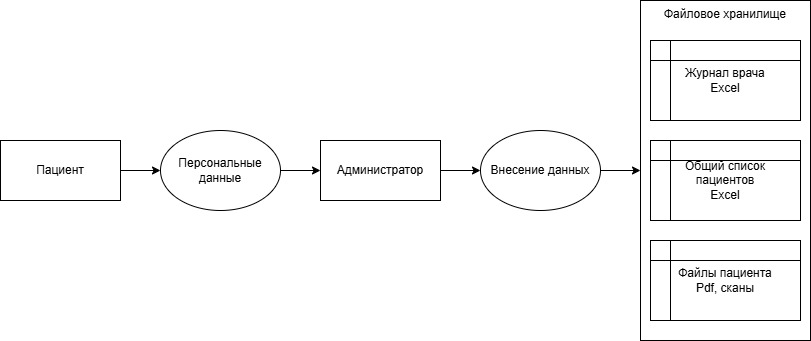
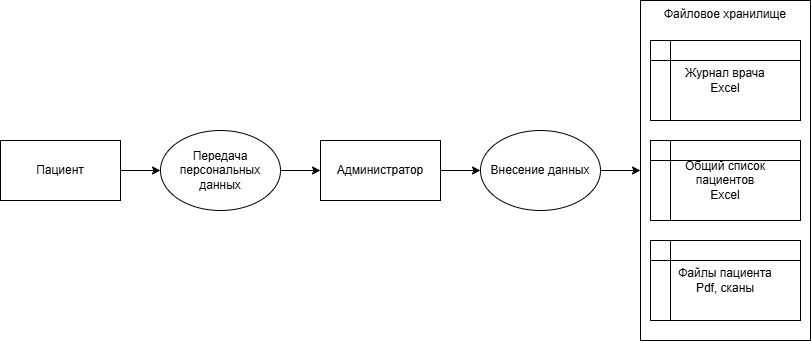
Task 1

Changed region(s): [[0.2158, 0.4399, 0.3391, 0.5572]]

diff --git a/Task1/README.md b/Task1/README.md
@@ -1,0 +1,64 @@
+## Задание 1. Анализ безопасности системы
+
+### Диаграммы потоков данных as-is
+
+#### Запись на прием
+![Запись на прием](Запись_на_прием_as-is.jpg)
+#### Прием пациента
+![Прием у врача](Прием_у_врача_as-is.jpg)
+#### Оплата услуг
+![Оплата услуг](Оплата_услуг_as-is.jpg)
+#### Лабораторные исследования
+![Учет ТМЦ](Учет_ТМЦ_as-is.jpg)
+
+### Обнаруженные категории конфиденциальных данных
+
+- **Персональные данные**: ФИО, дата рождения, телефон, e-mail, серия/номер паспорта, адрес регистрации/проживания
+- **Данные контрактов**: Номера договоров, условия обслуживания
+- **Медицинские данные**: Диагнозы, назначения, результаты анализов
+- **Финансовые данные**: Факты оплаты, суммы, кассовые чеки
+
+### Выявленные проблемы
+
+1. Отсутствие контроля доступа к данным. Любой сотрудник компании может получить доступ к практически любым данным.
+2. Отсутствует механизм шифрования данных как при хранении, так и при передаче.
+3. Отсутствует аудит доступа к файлам и действий с данными.
+4. Отсутствуют средства оповещения об инцидентах или аномальных активностях.
+5. Не определён срок хранения данных.
+6. Отсутствует резервное копирование данных.
+7. Отсутствует политика обработки персональных данных.
+8. Отсутствует механизм анонимизации данных.
+9. Отсутствует механизм отзыва согласия на обработку персональных данных.
+
+### Список данных для защиты и методы их защиты
+
+| **Категория**       | **При хранении**                                                       | **При передаче**     | **При использовании**                                       |
+|---------------------|------------------------------------------------------------------------|----------------------|-------------------------------------------------------------|
+| Персональные данные | Шифрование БД/файлов (AES-256), шифрование бэкапов                     | TLS 1.2+             | Маскирование в отчётах; токенизация идентификаторов         |
+| Медицинские данные  | Шифрование на уровне БД/файлов; ограниченный доступ по ролям/атрибутам | mTLS между сервисами | Деперсонализация для BI/ML; отдельные скоупы доступа        |
+| Финансовые данные   | Шифрование БД 1С/файлов; журналирование операций                       | TLS                  | Маскирование PAN/чеков в отчетах, доступ только бухгалтерии |
+| Документы/сканы     | Объектное хранилище с шифрованием и версиями                           | TLS                  | Запрещён экспорт вне безопасной зоны                        |
+| Логи/журналы        | Централизованное хранилище с шифрованием                               | TLS/mTLS             | Обфускация пользовательских идентификаторов                 |
+
+
+### Тегирование данных
+
+- **Теги**: PII(персональные данные), medic(медицинские данные), finance(финансовые данные), log(логи), internal(внутренние данные)
+- **Хранение тегов**: В БД(таблица с тегами и описанием), в файловом хранилище(как метаданные), в логах (поля с тегами)
+
+### Инструменты защиты
+
+- **Аутентификация/авторизация**: Keycloak (OIDC), запрет общих учёток, журналирование сессий
+- **Шифрование**: TLS 1.2/1.3
+- **DLP**: Symantec DLP
+
+### Диаграммы потоков данных to-be
+
+#### Запись на прием
+![Запись на прием](Запись_на_прием_to-be.jpg)
+#### Прием пациента
+![Прием у врача](Прием_у_врача_to-be.jpg)
+#### Оплата услуг
+![Оплата услуг](Оплата_услуг_to-be.jpg)
+#### Лабораторные исследования
+![Учет ТМЦ](Учет_ТМЦ_to-be.jpg)
